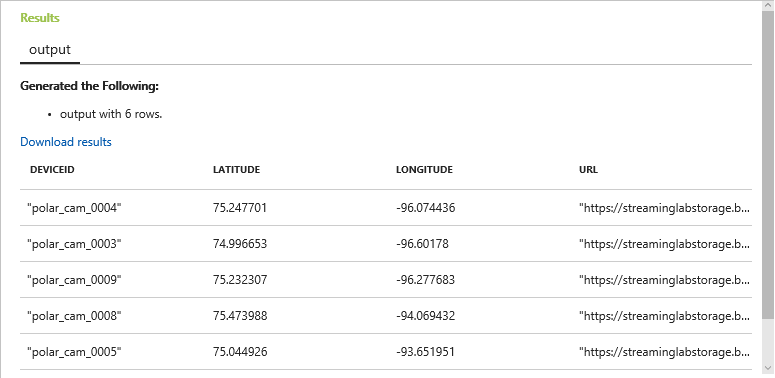
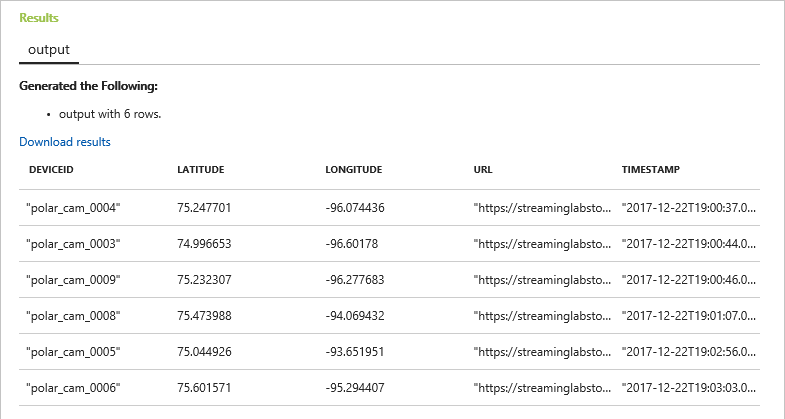
Updated Lab 2 in second 400 series

diff --git a/Stream Analytics with Machine Learning (400)/2 - Process/readme.md b/Stream Analytics with Machine Learning (400)/2 - Process/readme.md
@@ -147,7 +147,7 @@ The heart of a Stream Analytics job is the query that extracts information from 
 	Enter the following query and click **Test** to execute it:
 
 	```sql
-	SELECT C1.deviceId, C1.latitude, C1.longitude, C1.url
+	SELECT C1.deviceId, C1.latitude, C1.longitude, C1.url, C1.timestamp
 	FROM CameraInput C1 TIMESTAMP BY timestamp
 	JOIN CameraInput C2 TIMESTAMP BY timestamp
 	ON C1.deviceId = C2.deviceId
@@ -231,10 +231,10 @@ One way to connect a Stream Analytics job to a machine-learning model running in
 
 	> Just as a Stream Analytics job will accept multiple inputs, it supports multiple outputs, too. In addition to passing the output to an Azure Function, you could easily add outputs to log the output from the job in an Azure SQL database, a Cosmos DB database, blob storage, and other locations.
 
-1. Wait for the output to appear in the list of outputs, indicating that it has been successfully added to the Stream Analytics job. Then close the "Outputs" blade, click **Query**, and modify the query you wrote in the previous exercise to include an ```INTO``` clause (line 2 below) that directs query results to the output you just added:
+1. Wait for the output to appear in the list of outputs, indicating that it has been successfully added to the Stream Analytics job. Then close the "Outputs" blade and modify the query you wrote in the previous exercise to include an ```INTO``` clause (line 2 below) that directs query results to the output you just added:
 
 	```sql
-	SELECT C1.deviceId, C1.latitude, C1.longitude, C2.url
+	SELECT C1.deviceId, C1.latitude, C1.longitude, C1.url, C1.timestamp
 	INTO FunctionOutput
 	FROM CameraInput C1 TIMESTAMP BY timestamp
 	JOIN CameraInput C2 TIMESTAMP BY timestamp
@@ -394,7 +394,7 @@ In this exercise, you will use Node.js to stream events from the simulated camer
 	});
 	```
 
-	This code uses the new [class support](http://es6-features.org/#ClassDefinition) in ECMAScript 6 (ES6) to define a class named ```Camera```. Then it creates 10 ```Camera``` instances and starts them running. Each camera object connects to the IoT hub securely using an access key obtained from **cameras.json**, and then uses a random timer to transmit events every 5 to 30 seconds. Each event that is transmitted includes the camera's ID, latitude, and longitude, as well as an image URL. The URL refers to an image that the camera uploaded to blob storage before firing the event. Images are randomly selected from the files in the project directory's "photos" subdirectory.
+	This code uses the new [class support](http://es6-features.org/#ClassDefinition) in ECMAScript 6 (ES6) to define a class named ```Camera```. Then it creates 10 ```Camera``` instances and starts them running. Each camera object connects to the IoT hub securely using an access key obtained from **cameras.json**, and then uses a random timer to transmit events every 5 to 30 seconds. Each event that is transmitted includes the camera's ID, latitude, and longitude, as well as an image URL and a timestamp. The URL refers to an image that the camera uploaded to blob storage before firing the event. Images are randomly selected from the files in the project directory's "photos" subdirectory.
 
 1. Open a Command Prompt or terminal window and ```cd``` to the project directory. Then use the following command to run **run.js**:
 
@@ -434,7 +434,7 @@ In this exercise, you will use Node.js to stream events from the simulated camer
 	polar_cam_0009: https://streaminglabstorage.blob.core.windows.net/photos/image_26.jpg
 	```
 
-1. Confirm that the cameras are running and generating events as shown above. Then return to the Azure Function in the portal and check the output log. Verify that over the course of a few minutes, the log shows several outputs from Stream Analytics. (The frequency will vary because the cameras use random timers to fire events.) Note that each output contains a JSON payload containing a device ID, latitude, longitude, and blob URL.
+1. Confirm that the cameras are running and generating events as shown above. Then return to the Azure Function in the portal and check the output log. Verify that over the course of a few minutes, the log shows several outputs from Stream Analytics. (The frequency will vary because the cameras use random timers to fire events.) Note that each output contains a JSON payload containing a device ID, latitude, longitude, blob URL, and timestamp.
 
 	> Remember that the Stream Analytics job doesn't forward every event it receives to the function. It generates an output *only* when one camera snaps two photos within 10 seconds.
 
